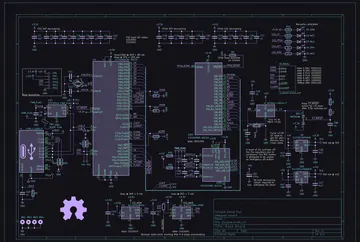
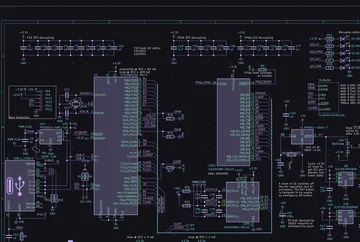
chore(viewer-guide): re-take every guide capture from production at 1600x1000 @3x with no project name in frame — the tour's four (tour-*) at twice their largest box (3D 1680x1120, schematic + board 1280x800, part panel 1005 native, its Sheet row hidden for the frame), the outputs' five re-cut to th

diff --git a/frontend/scripts/viewer-guide/capture.playwright.js b/frontend/scripts/viewer-guide/capture.playwright.js
@@ -2,52 +2,102 @@
 // catalog as buyers see it. Read-only: it opens the committed example project
 // ("Try the example project") and never signs in. Run it through the
 // Playwright MCP (`browser_run_code_unsafe` with `filename` pointing here); it
-// writes raw element screenshots to OUT, and `encode.py` turns them into the
-// WebP files under public/viewer-guide/. See README.md beside this file.
+// writes raw screenshots to OUT, and `encode.py` turns them into the WebP files
+// under public/viewer-guide/. See README.md beside this file.
+//
+// One selection, followed across every view: U30, the example's iCE40 FPGA.
+// The window is 1600x1000 at deviceScaleFactor 3, so every frame the guide
+// shows carries at least twice the device pixels of the box it is drawn in
+// (the 3D view renders at min(dpr, 2) — its crop is sized for that). Reduced
+// motion is on so the 3D view does not auto-orbit: the camera is where this
+// script put it, every time.
 async (page) => {
   const OUT = '/tmp/viewer-guide-raw/';
-  const ctx = await page.context().browser().newContext({ viewport: { width: 1440, height: 900 }, deviceScaleFactor: 2 });
+  const ctx = await page
+    .context()
+    .browser()
+    .newContext({ viewport: { width: 1600, height: 1000 }, deviceScaleFactor: 3, reducedMotion: 'reduce' });
   const p = await ctx.newPage();
   const stage = p.locator('[class^="_stage_"]:visible').first();
   const drawer = p.locator('[class^="_drawer_"]:visible').first();
+  const show = (label) =>
+    p.locator('[class^="_drawer_"] [role="group"][aria-label="Show on"] button', { hasText: new RegExp(`^${label}$`) });
+  const clipOf = async (loc) => {
+    const box = await loc.boundingBox();
+    return { x: box.x, y: box.y, width: box.width, height: box.height };
+  };
+  const shoot = async (name, loc) => p.screenshot({ path: OUT + name, clip: await clipOf(loc) });
   const log = [];
   try {
     await p.goto('https://circuitcenter.ai/viewer', { waitUntil: 'networkidle' });
-    await p.getByRole('button', { name: 'Try the example project' }).click();
+    await p.getByRole('button', { name: 'Try the example project' }).first().click();
     await p.getByRole('tab', { name: 'Schematic' }).waitFor({ timeout: 60000 });
     await p.waitForTimeout(8000);
-    await stage.screenshot({ path: OUT + 'sch-stage.png' });
+    await shoot('sch-root.png', stage);
 
-    // One selection, followed across every view: U30, the iCE40 FPGA.
-    const find = p.getByPlaceholder('Find a reference, e.g. U30');
-    await find.fill('U30');
-    await find.press('Enter');
-    await p.waitForTimeout(5000);
-    await stage.screenshot({ path: OUT + 'sch-u30-stage.png' });
-
-    // "Show on Board" is the gesture that ZOOMS to the footprint.
-    await p.locator('[class^="_drawer_"] button', { hasText: /^Board$/ }).click();
-    await p.waitForTimeout(8000);
-    await stage.screenshot({ path: OUT + 'board-u30-stage.png' });
-
-    await p.getByRole('tab', { name: 'Stackup' }).click();
-    await p.waitForTimeout(3000);
-    await stage.screenshot({ path: OUT + 'stackup-stage.png' });
-
-    await p.getByRole('tab', { name: '3D' }).click();
-    await p.waitForTimeout(14000);
-    await stage.screenshot({ path: OUT + '3d-stage.png' });
-
+    // Price the BOM first, so the part panel carries its catalog match.
     await p.getByRole('tab', { name: 'BOM' }).click();
     await p.getByText(/lines priced/).first().waitFor({ timeout: 60000 });
     await p.waitForTimeout(20000);
     log.push(await p.getByText(/lines priced/).first().evaluate((el) => el.parentElement?.textContent ?? ''));
-    await drawer.screenshot({ path: OUT + 'panel-drawer.png' });
-    // The table gets the full stage once the drawer is closed.
+
+    // The schematic: typing the reference focuses its unit.
+    await p.getByRole('tab', { name: 'Schematic' }).click();
+    await p.waitForTimeout(5000);
+    const find = p.getByPlaceholder('Find a reference, e.g. U30');
+    await find.fill('U30');
+    await find.press('Enter');
+    await p.waitForTimeout(5000);
+    await shoot('sch.png', stage);
+
+    // The part panel, from its designator down to the "Show on" row. The Sheet
+    // row is hidden for this one frame: it names the example's root sheet (the
+    // project's own name), and the guide shows no project-specific names.
+    const panel = await drawer.evaluate((d) => {
+      const sheet = [...d.querySelectorAll('dl dt')].find((dt) => dt.textContent === 'Sheet');
+      if (sheet) {
+        sheet.style.display = 'none';
+        sheet.nextElementSibling.style.display = 'none';
+      }
+      const head = d.querySelector('[class^="_ref_"]').parentElement.getBoundingClientRect();
+      const row = d.querySelector('[role="group"][aria-label="Show on"]').getBoundingClientRect();
+      const pad = 14;
+      return { x: head.left - pad, y: head.top - pad, width: head.width + 2 * pad, height: row.bottom - head.top + 2 * pad };
+    });
+    await p.screenshot({ path: OUT + 'panel.png', clip: panel });
+    await drawer.evaluate((d) => d.querySelectorAll('dl dt, dl dd').forEach((el) => (el.style.display = '')));
+
+    // "Show on Board" is the gesture that ZOOMS to the footprint.
+    await show('Board').click();
+    await p.waitForTimeout(8000);
+    await shoot('brd.png', stage);
+
+    await p.getByRole('tab', { name: 'Stackup' }).click();
+    await p.waitForTimeout(3000);
+    await shoot('stackup.png', stage);
+
+    // 3D: the part lights up with its label. One frame as the view frames the
+    // whole board, then one dollied in so the chip reads.
+    await show('3D').click();
+    await p.waitForTimeout(15000);
+    const canvas = p.locator('canvas:visible').first();
+    const cb = await clipOf(canvas);
+    await p.screenshot({ path: OUT + '3d-fit.png', clip: cb });
+    await p.mouse.move(cb.x + cb.width / 2, cb.y + cb.height / 2);
+    for (let i = 0; i < 6; i++) {
+      await p.mouse.wheel(0, -400);
+      await p.waitForTimeout(250);
+    }
+    await p.waitForTimeout(4000);
+    await p.screenshot({ path: OUT + '3d.png', clip: cb });
+
+    // The BOM gets the full stage once the drawer is closed; closing it re-lays
+    // the bench, so the viewport is the stable frame.
+    await p.getByRole('tab', { name: 'BOM' }).click();
+    await p.waitForTimeout(3000);
     await p.locator('[class^="_drawer_"] button[aria-label="Close panel"]').click();
-    await p.waitForTimeout(1500);
-    // Closing the drawer re-lays the bench; the viewport is the stable frame.
-    await p.screenshot({ path: OUT + 'bom-viewport.png' });
+    await p.waitForTimeout(2000);
+    await p.screenshot({ path: OUT + 'bom.png' });
   } catch (err) {
     log.push(String(err));
     await p.screenshot({ path: OUT + 'error.png' });

diff --git a/frontend/scripts/viewer-guide/encode.py b/frontend/scripts/viewer-guide/encode.py
@@ -1,9 +1,18 @@
 """Turn the raw captures from capture.playwright.js into the guide's WebP files.
 
-Every crop is a FRACTION of the captured element's own box (the stage, the
-drawer, the viewport), never a pixel position, so a re-capture at another
-window size lands on the same content. Output sizes are twice the largest size
-each picture is drawn at, so they stay sharp on a 2x screen.
+Each crop is a CENTRE and a WIDTH, both fractions of the raw capture (the
+stage, the 3D canvas, the part panel, the viewport), never pixel positions, so
+a re-capture at another window size lands on the same content. The crop's
+height follows from the output's own aspect ratio, so every file comes out at
+exactly the size `guideCopy.ts` (IMAGES) reserves for it.
+
+The tour's four pictures (tour-*) are sized to at least twice the largest box
+the tour draws them in (the 3D frame tops out near 810x540 CSS px; the
+schematic and board frames at 480 wide in the phone column, where a 3x screen
+draws them from ~1290 device px; the part panel at 340 wide on a phone); `viewerGuide.test.ts` holds those numbers and fails
+if a file shrinks below them. No frame shows the example project's name: the
+crops stay clear of title blocks, silkscreen titles and the project bar, and
+the capture hides the part panel's Sheet row.
 
     python3 frontend/scripts/viewer-guide/encode.py [RAW_DIR]
 
@@ -17,32 +26,56 @@ from PIL import Image
 RAW = sys.argv[1] if len(sys.argv) > 1 else '/tmp/viewer-guide-raw'
 OUT = os.path.join(os.path.dirname(__file__), '..', '..', 'public', 'viewer-guide')
 
-# name: (source, (left, top, right, bottom) as fractions, output width, quality)
+# name: (source, (centre x, centre y, width) as fractions or None for the whole
+#        capture, (output width, output height or None to keep the capture's
+#        aspect), quality)
 JOBS = {
-    'schematic': ('sch-stage.png', (0.02, 0.06, 0.98, 0.9), 360, 78),
-    'schematic-u30': ('sch-u30-stage.png', (0.12, 0.04, 0.88, 0.64), 560, 74),
-    'board-u30': ('board-u30-stage.png', (0.0, 0.0, 1.0, 0.9), 600, 72),
-    'stackup': ('stackup-stage.png', (0.01, 0.0, 0.76, 0.42), 360, 80),
-    'board-3d-u30': ('3d-stage.png', (0.12, 0.1, 0.88, 0.8), 820, 74),
-    'bom': ('bom-viewport.png', (0.14, 0.38, 0.75, 0.92), 420, 80),
-    'part-panel-u30': ('panel-drawer.png', (0.0, 0.13, 1.0, 0.9), 560, 82),
+    # The tour: U30 followed across the views.
+    'tour-3d-u30': ('3d.png', (0.615, 0.404, 0.75), (1680, 1120), 80),
+    'tour-schematic-u30': ('sch.png', (0.512, 0.674, 0.624), (1280, 800), 80),
+    'tour-board-u30': ('brd.png', (0.5, 0.5, 0.64), (1280, 800), 74),
+    'tour-panel-u30': ('panel.png', None, (1005, None), 86),
+    # "What each file becomes": one small picture per view.
+    'schematic': ('sch-root.png', (0.458, 0.397, 0.796), (360, 242), 80),
+    'bom': ('bom.png', (0.42625, 0.6584, 0.675), (420, 232), 80),
+    'board-u30': ('brd.png', (0.5, 0.543, 0.7), (600, 415), 74),
+    'stackup': ('stackup.png', (0.37, 0.23, 0.71), (360, 155), 80),
+    'board-3d-u30': ('3d-fit.png', (0.5, 0.537, 0.8), (820, 581), 74),
 }
+
+
+def crop_box(size, frac, out_w, out_h):
+    """The crop around (cx, cy) of width wf, as tall as the output's aspect
+    needs, slid back inside the capture if it runs over an edge."""
+    w, h = size
+    cx, cy, wf = frac
+    bw = wf * w
+    bh = bw * out_h / out_w
+    if bh > h:
+        raise SystemExit(f'crop {frac} needs {bh:.0f}px of a {h}px capture')
+    left = min(max(cx * w - bw / 2, 0), w - bw)
+    top = min(max(cy * h - bh / 2, 0), h - bh)
+    return (round(left), round(top), round(left + bw), round(top + bh))
 
 
 def main() -> None:
     os.makedirs(OUT, exist_ok=True)
     total = 0
-    for name, (src, (l, t, r, b), width, quality) in JOBS.items():
+    for name, (src, frac, (out_w, out_h), quality) in JOBS.items():
         im = Image.open(os.path.join(RAW, src)).convert('RGB')
-        w, h = im.size
-        crop = im.crop((round(l * w), round(t * h), round(r * w), round(b * h)))
-        height = round(crop.height * width / crop.width)
-        crop = crop.resize((width, height), Image.LANCZOS)
+        if frac is None:
+            crop = im
+            out_h = out_h or round(im.height * out_w / im.width)
+        else:
+            crop = im.crop(crop_box(im.size, frac, out_w, out_h))
+        if crop.width < out_w:
+            raise SystemExit(f'{name}: the crop is {crop.width}px wide, less than the {out_w}px output')
+        crop = crop.resize((out_w, out_h), Image.LANCZOS)
         path = os.path.join(OUT, f'{name}.webp')
         crop.save(path, 'WEBP', quality=quality, method=6)
         size = os.path.getsize(path)
         total += size
-        print(f'{name}.webp  {width}x{height}  {size / 1024:.1f} KB')
+        print(f'{name}.webp  {out_w}x{out_h}  {size / 1024:.1f} KB')
     print(f'total {total / 1024:.1f} KB')
 
 

diff --git a/frontend/scripts/viewer-guide/README.md b/frontend/scripts/viewer-guide/README.md
@@ -1,25 +1,49 @@
 # /viewer guide captures
 
 The pictures in `frontend/public/viewer-guide/*.webp` are real captures of the
-Design Viewer on the committed example project (Glasgow revC3, 0BSD), taken
-from **production** so the BOM shows the catalog buyers see. Re-take them when
-the viewer's look changes, before a deploy:
+Design Viewer on the committed example project ("Try the example project"),
+taken from **production** so the BOM shows the catalog buyers see. Re-take
+them when the viewer's look changes, before a deploy:
 
 1. `mkdir -p /tmp/viewer-guide-raw`
 2. Run `capture.playwright.js` through the Playwright MCP
-   (`browser_run_code_unsafe` with `filename` set to this file). It opens
-   https://circuitcenter.ai/viewer in its own 1440×900 @2x context, clicks
-   "Try the example project", finds U30, shows it on the Board, visits
-   Stackup, 3D and BOM, and writes element screenshots (the stage, the part
-   drawer, the viewport) to `/tmp/viewer-guide-raw/`. Read-only; it never signs in.
-3. `python3 frontend/scripts/viewer-guide/encode.py` — crops each capture by
-   FRACTIONS of its element's box, resizes to twice the largest size the guide
-   draws it at, and writes WebP (Pillow with WebP support; no npm dependency).
+   (`browser_run_code_unsafe` with `filename` set to this file — the MCP only
+   reads files inside the repo). It opens https://circuitcenter.ai/viewer in its
+   own 1600×1000 context at deviceScaleFactor 3 with reduced motion (so the 3D
+   view does not auto-orbit), clicks "Try the example project", prices the BOM,
+   finds U30, shows it on the Board, visits Stackup, shows it in 3D (once as
+   framed, once dollied in) and ends on the BOM. It writes stage, canvas,
+   part-panel and viewport screenshots to `/tmp/viewer-guide-raw/`. Read-only;
+   it never signs in. Use the Playwright MCP, not chrome-devtools: the 3D view
+   needs WebGL.
+3. `python3 frontend/scripts/viewer-guide/encode.py` — crops each capture
+   around a CENTRE and WIDTH given as fractions of the capture, takes the
+   height from the output's aspect, resizes and writes WebP (Pillow with WebP
+   support; no npm dependency).
 4. If a file's pixel size changed, update its `width`/`height` in
    `src/public/pages/viewer/components/guide/guideCopy.ts` (`IMAGES`) — the
-   guide reserves that box before the picture loads.
+   page reserves that box before the picture loads, and `partTour.test.ts`
+   fails until the two agree.
 
-Keep the set well under ~350 KB (it was ~157 KB on 2026-09-24). The copy beside
-the pictures must stay true of what they show: the 2026-09-24 production BOM
-priced 32 of 66 lines and U30 had no distributor stock, so the tour says the
-part panel shows "what our catalog knows", never a price.
+## What the tour pictures promise
+
+- **Twice the pixels of the largest box they are drawn in**
+  (`partTour.test.ts`, `LARGEST_BOX`): 3D 1680×1120 for a frame up to ~804×536
+  CSS px; schematic and board 1280×800 for the 480px phone column (a 3x phone
+  draws them from ~1290 device px); the part panel at its native 1005px for a
+  340px phone frame. The tour's grid stops growing at 1312px
+  (`$tour-max` in `PartTour.module.scss`) so this stays true on wide screens.
+- **Shapes the frames are cut to**: 3D 3:2 (the frame crops it around the chip
+  by `object-position`), schematic and board 16:10, the part panel its own
+  aspect (never cropped).
+- **No project-specific names in any frame.** The crops stay clear of the
+  schematic's title block, the board's silkscreen title and the workspace's
+  project bar; the capture HIDES the part panel's Sheet row for that one frame
+  because it names the example's root sheet. Check each file by eye after a
+  re-take.
+- **The whole tour under ~500 KB** (318 KB on 2026-09-24; all nine files
+  428 KB).
+
+The copy beside the pictures must stay true of what they show: the 2026-09-24
+production BOM priced 32 of 66 lines and U30 had no distributor stock, so the
+tour says the part panel shows "what our catalog knows", never a price.
